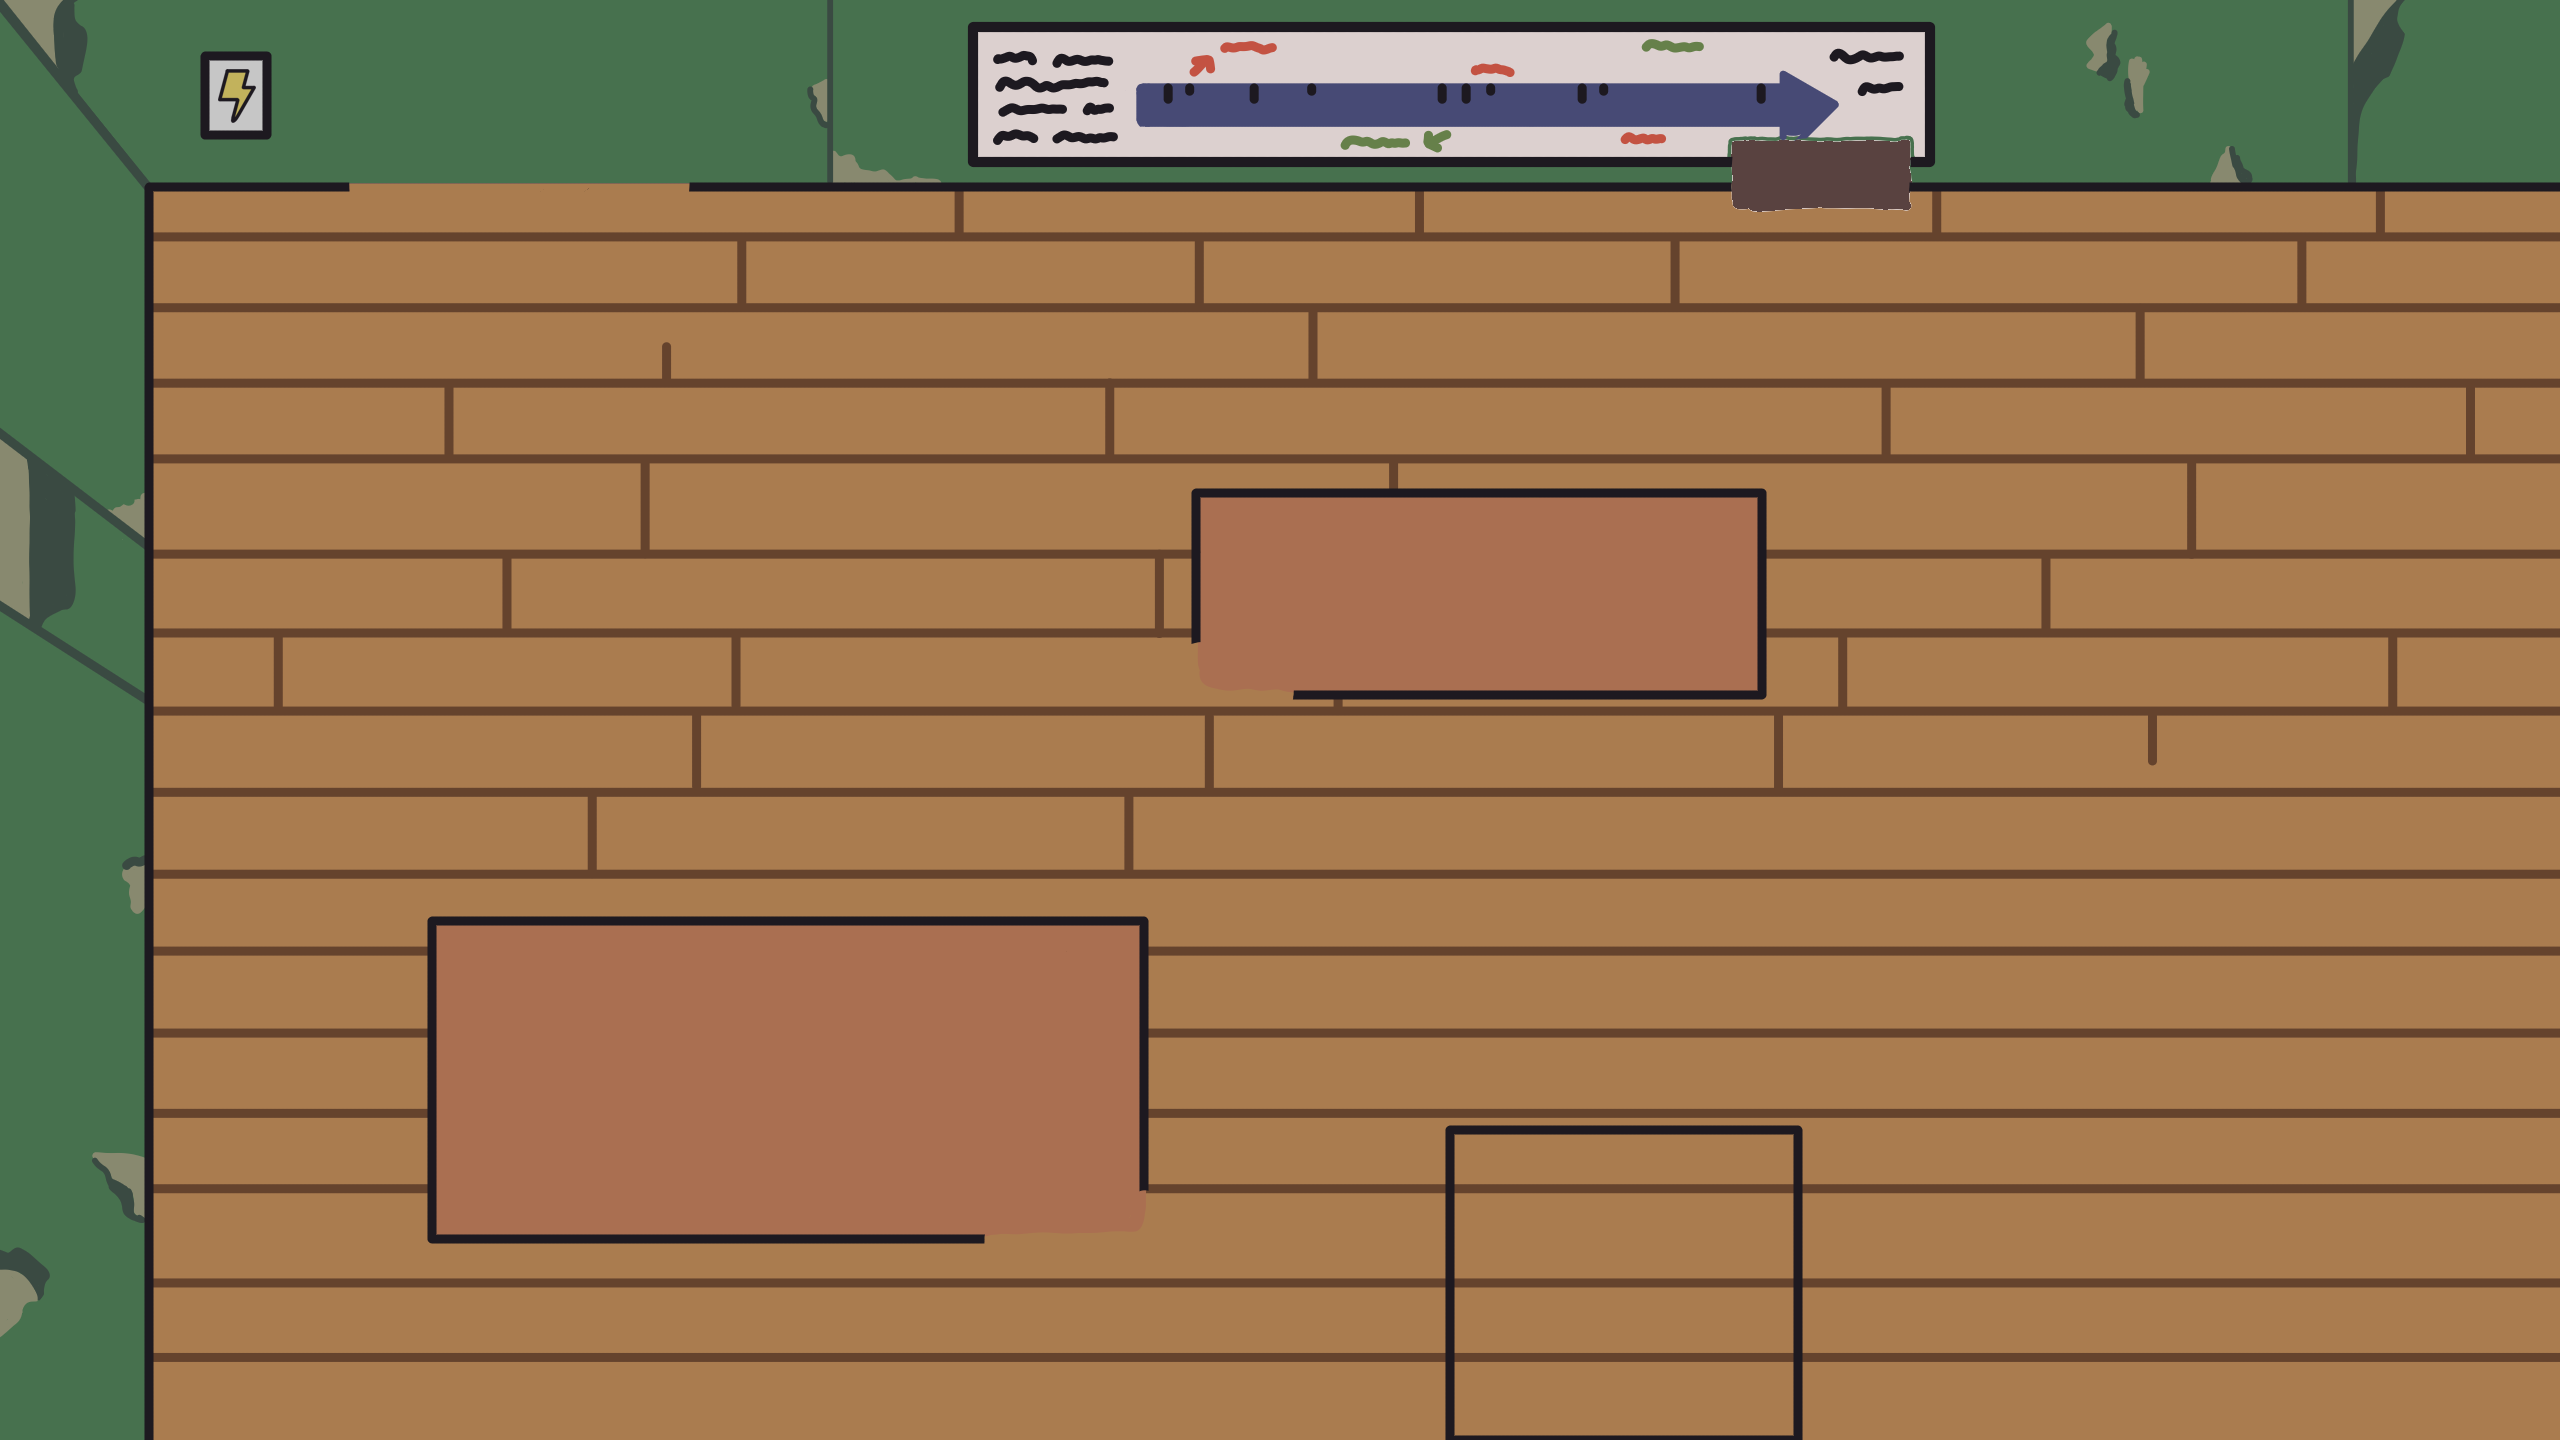
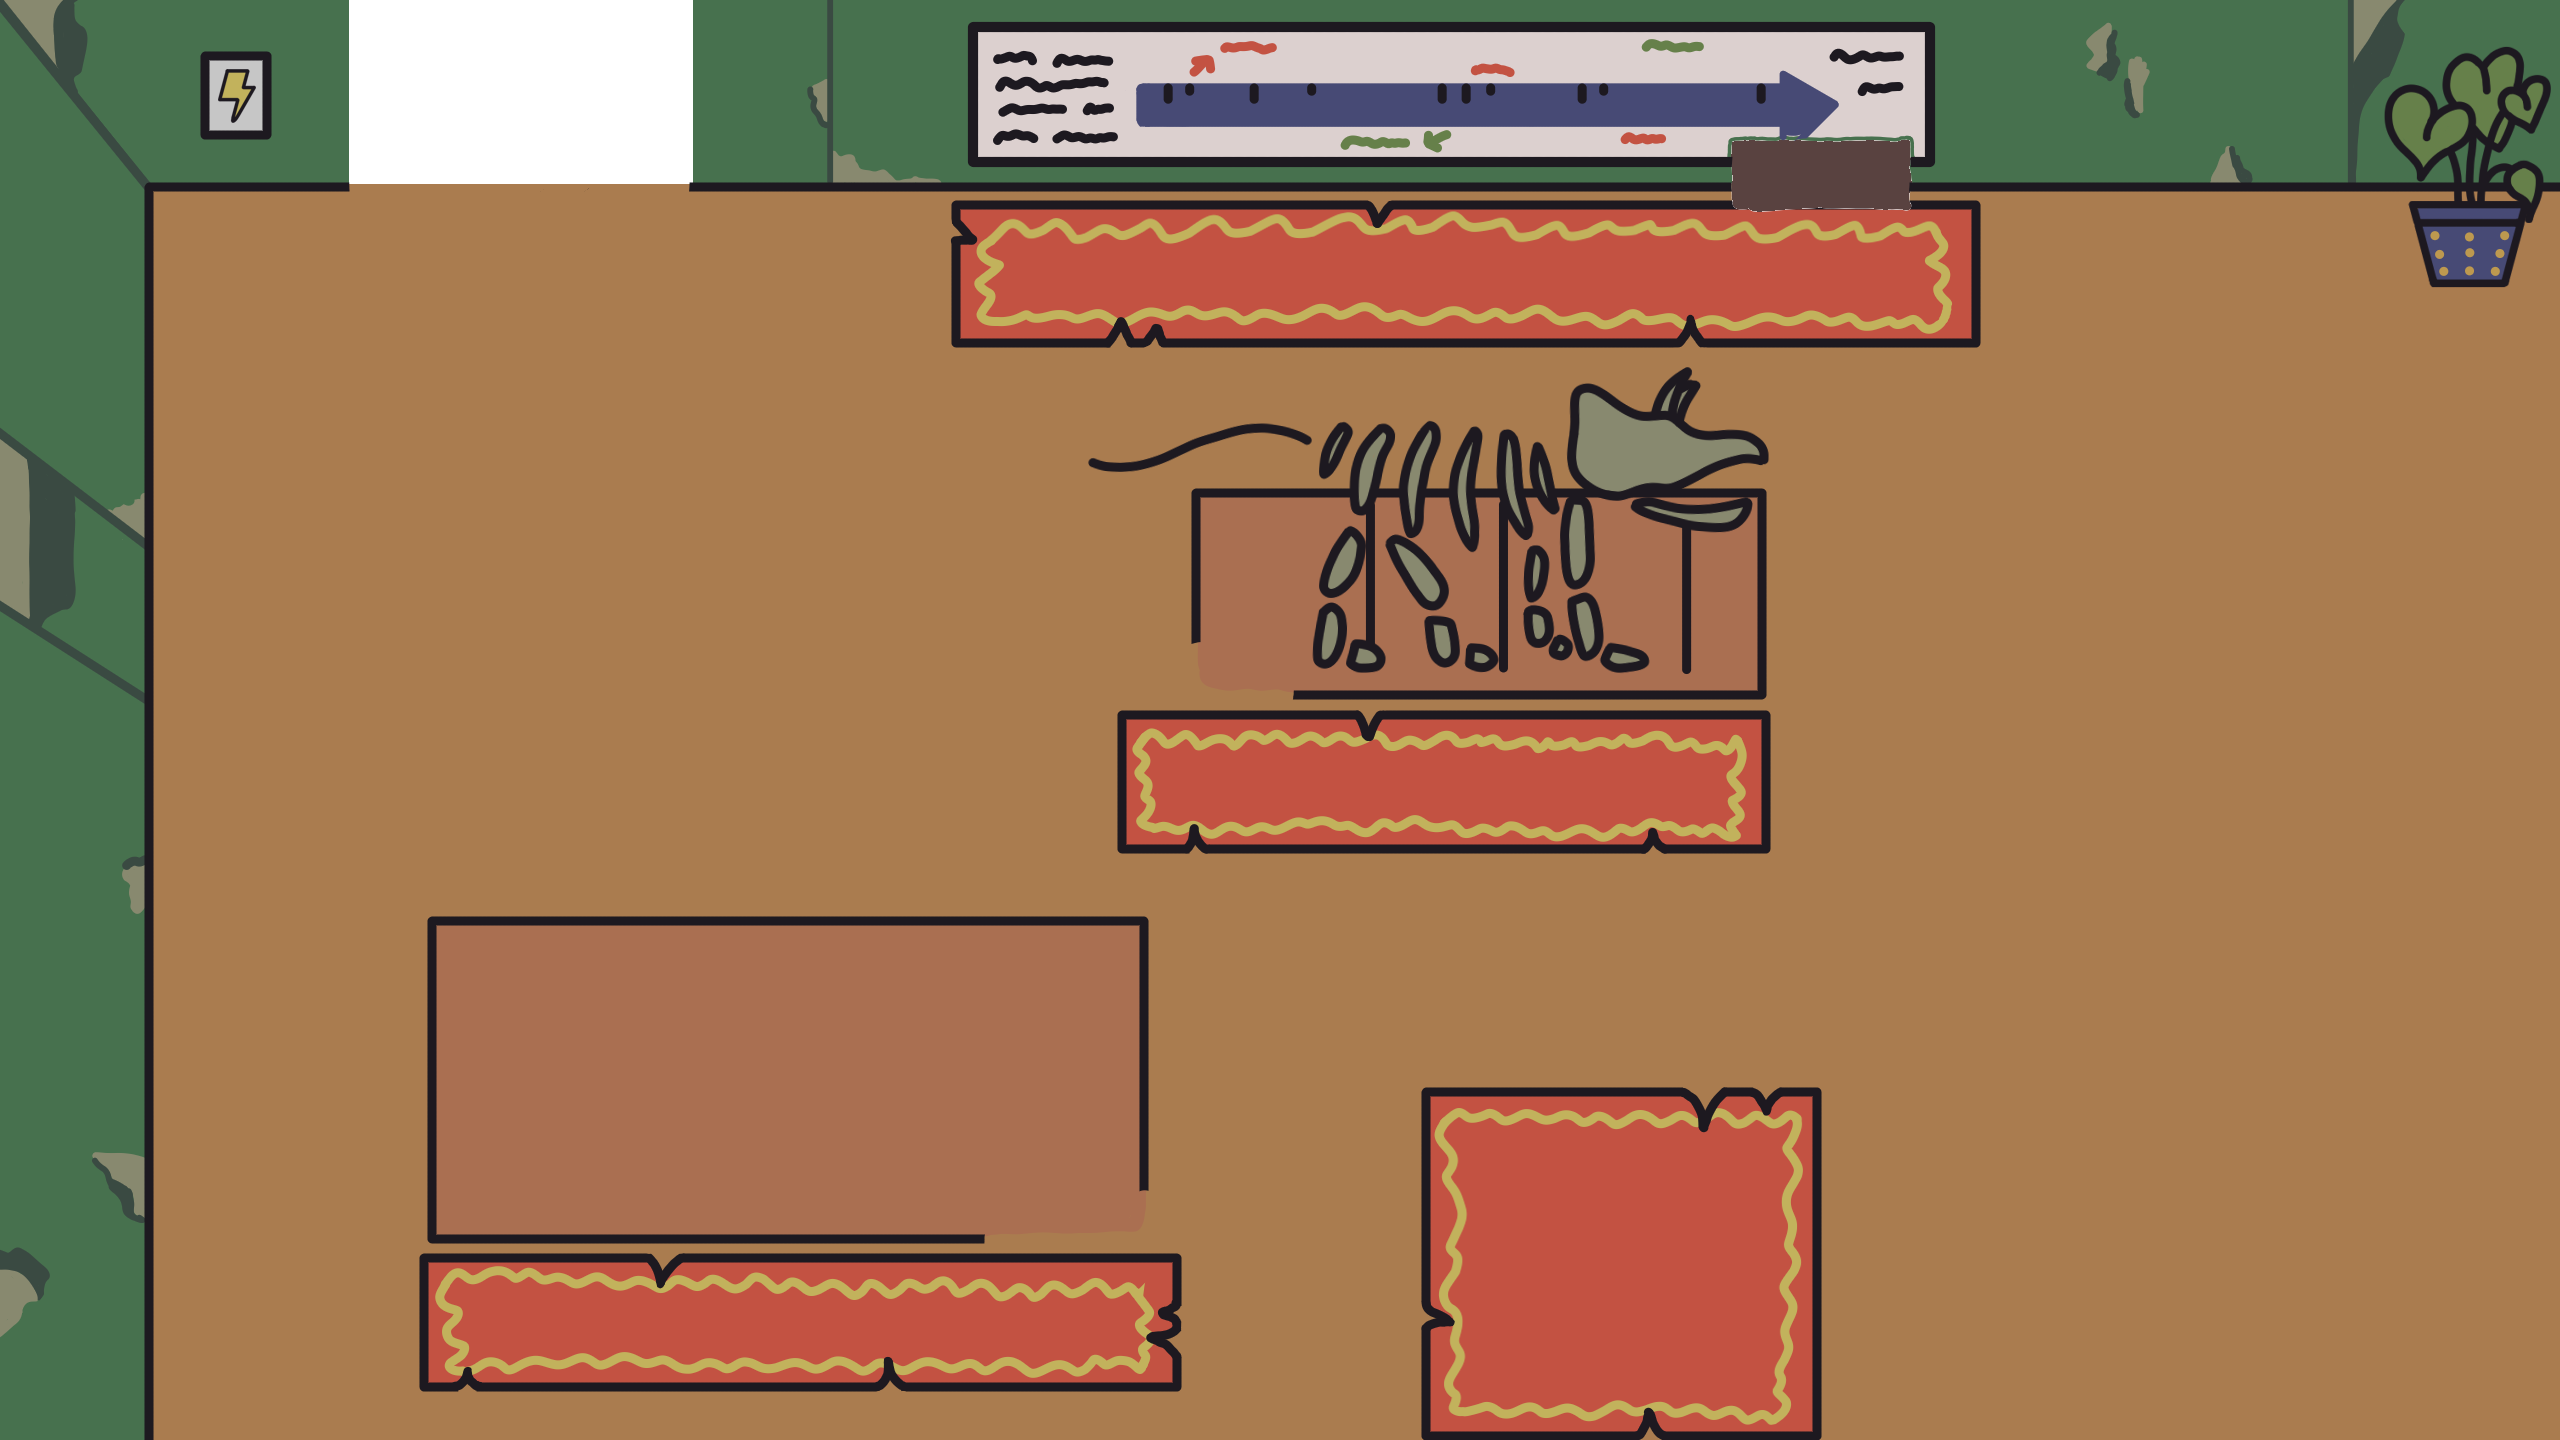
update level map

diff --git a/src/minigames/level.rs b/src/minigames/level.rs
@@ -113,7 +113,7 @@ impl LevelAssets {
 fn start_music(mut commands: Commands, credits_music: Res<LevelAssets>) {
     commands.spawn((
         Name::new("Game Music"),
-        DespawnOnExit(Screen::Title),
+        DespawnOnExit(Screen::Gameplay),
         music(credits_music.music.clone()),
     ));
 }
@@ -243,7 +243,7 @@ pub(crate) fn spawn_minigames_selection(mut commands: Commands, level_assets: Re
     // Sprites décoratifs (non-interactifs)
     for (minigame, pos) in [
         (MiniGame::Skeleton, vec2(-390., -200.)),
-        (MiniGame::Toilet, vec2(-577., 420.)),
+        (MiniGame::Toilet, vec2(-572., 420.)),
         (MiniGame::Cashier, vec2(725., -100.)),
         (MiniGame::Trash, vec2(-350., 350.)),
     ] {